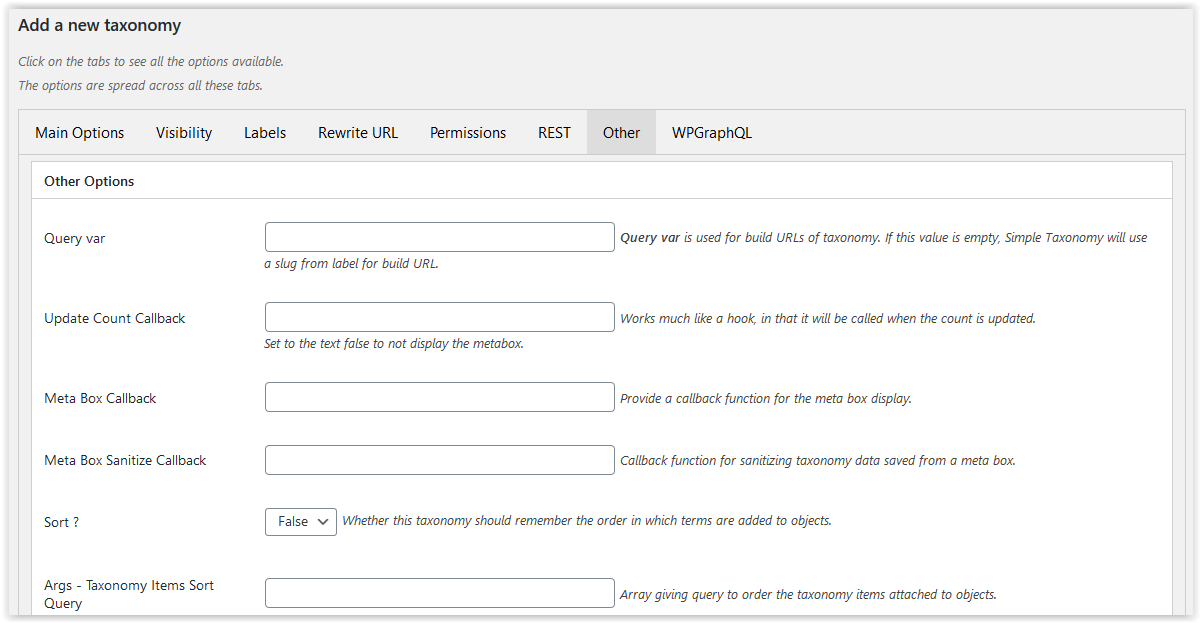
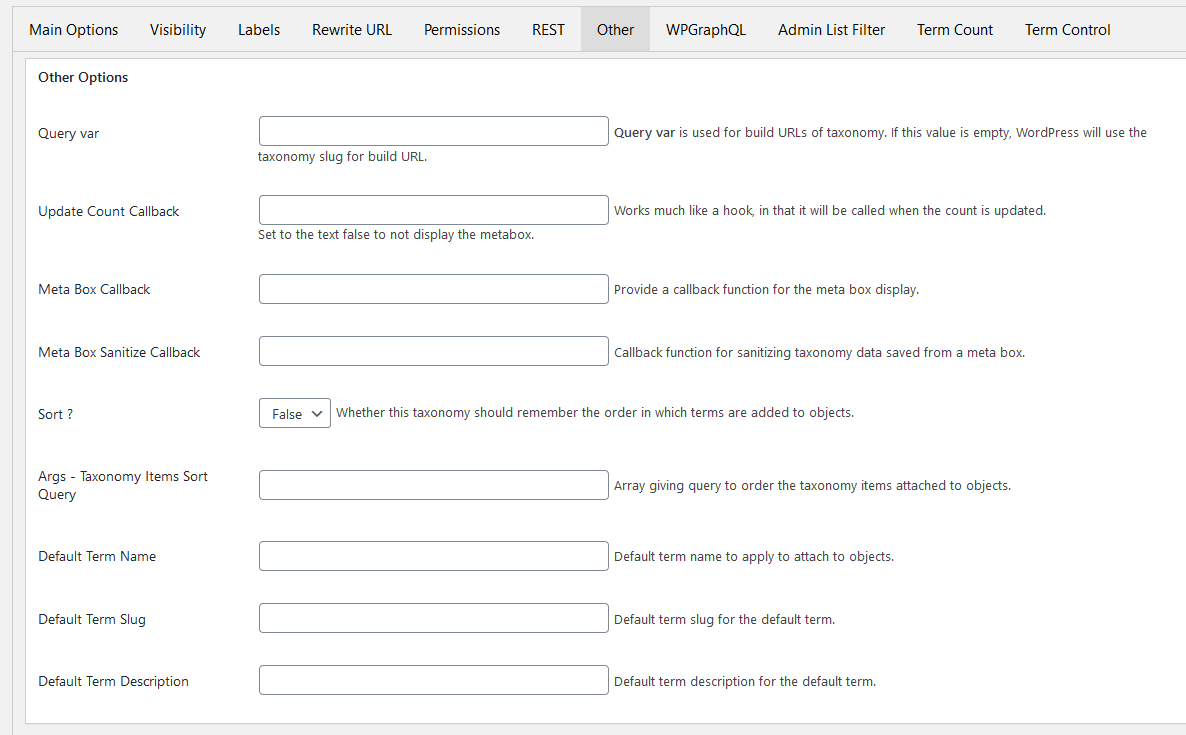
Update Documentation for 1.2

diff --git a/docs/addmod.md b/docs/addmod.md
@@ -14,7 +14,7 @@ You can move from panel to panel reviewing the parameters - but they need to be 
 
 ## Main
 
-![Main Panel](../images/AddTaxMain.png)
+![Main Panel](../images/AddTaxAdmin.png)
 
 The name **must** be completed in order to add the taxonomy.
 
@@ -77,3 +77,16 @@ This is an optional set of parameters and allows the user to modify the standard
 Two options are supported - either to count all statuses except trash; and the other allows the statuses to be individually specified.
 
 ![Term Count Panel showing statuses](../images/AddTaxTerm2.png)
+
+## Term Control
+
+![Term Control Panel](../images/AddTaxControl.png)
+
+This is an optional set of parameters that allows the user to require a minimum and/or maximum number of terms in the taxonomy to be attached to the post and to select the post statuses when the test is to be applied.
+
+Since a user may be able tro edit the post, but not add or delete terms, this can be notified to the user that the number is outsied the required bounds, but the edit is allowed.
+
+The option "When post is saved" means that the test is done during save post processing - and updates will be rejected if outside the bounds.
+
+The option "As terms are changed and when post is changed" means the bounds are checked during editing as well. This functionality is a "work in progress", that is, not complete. In particular, posts edited with the Block Editor are not currently controlled except when saving the post.
+

diff --git a/docs/readme.md b/docs/readme.md
@@ -6,7 +6,7 @@ WordPress provides a simple custom taxonomy, this plugin makes it even simpler, 
 * Tags: tags, taxonomies, custom taxonomies, taxonomy, category, categories, term conversion, conversion
 * Requires at least: 4.8
 * Stable tag: 1.1.1
-* Tested up to: 5.4.1
+* Tested up to: 5.5.1
 * License: GPLv3 or later
 * License URI: https://www.gnu.org/licenses/gpl-3.0.html
 
@@ -71,6 +71,13 @@ You should review the parameters to ensure that your needs are correctly set.
 See [Usage details](./usage.md) for more information on the usage of the plugin.
 
 ## Changelog
+
+* Version 1.2.0
+	* NEW: Add parameter "default_term" to register_taxonomy (introduced in WP 5.5).
+	* NEW: Add facility to control minimum and maximum number of terms for a taxonomy to a post.
+	* NEW: Add filter 'staxo_term_count_statuses' to extend user-selected post statuses for term counts.
+	* NEW: Add contexual help.
+	* FIX: PHP Taxonomy dump of term counts corrected.
 
 * Version 1.1.1
 	* FIX: Taxonomies saved with versions prior to 1.1.0 would create a PHP warning message.

diff --git a/docs/usage.md b/docs/usage.md
@@ -49,7 +49,7 @@ The data is held in JSON format and is incompatible with data stored by the plug
 
 ## Tools
 
-When the plugin is activated, three tools are available in the administration menu under *Tools*. They are *Terms migrate*, *Terms import* and *Rename Taxonomy Slug*.
+When the plugin is activated and a taxonomy has been registered, three tools are available in the administration menu under *Tools*. They are *Terms migrate*, *Terms import* and *Rename Taxonomy Slug*.
 
 ### Terms migrate
 

diff --git a/docs/filters.md b/docs/filters.md
@@ -22,6 +22,10 @@ The following filters are available for this plug-in:
 
     Modifies the default taxonomy selectors (for displaying which taxonomy to import/convert) 
 
+* staxo_term_count_statuses
+
+    Filter to manage additional post_statuses for Terms Control entered on the screen. 
+
 * staxo_widget_title
 
     Modifies the widget title

diff --git a/docs/example.md b/docs/example.md
@@ -39,7 +39,7 @@ Clicking on *Export PHP* will download a file call test_hier.php to the browser 
 	
 	----
 	
-	Copyright 2019 - XXX-Author
+	Copyright 2020 - XXX-Author
 	
 	This program is free software; you can redistribute it and/or modify
 	it under the terms of the GNU General Public License as published by
